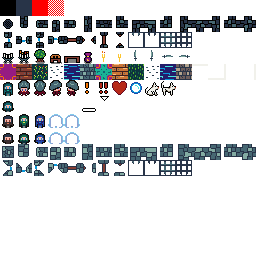
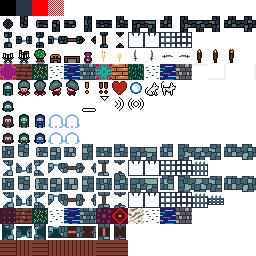
Fresh batch of tile adjustments

diff --git a/src/tilesets.ts b/src/tilesets.ts
@@ -185,30 +185,30 @@ const tileSet31Color:TileSet = {
         {textureIndex: r([0,  4]),  color:colorPreset.white, unlitColor:0xffa07070}, // TerrainType.GroundMarble,
         {textureIndex: r([7,  4]),  color:colorPreset.white, unlitColor:0xffa07070}, // TerrainType.GroundWood,
         {textureIndex: r([7,  4]),  color:colorPreset.white, unlitColor:0xffa07070}, // TerrainType.GroundWoodCreaky,
-        {textureIndex: r([0,  9]),  color:colorPreset.white, unlitColor:0xffa07070}, // TerrainType.Wall0000,
-        {textureIndex: r([2,  9]),  color:colorPreset.white, unlitColor:0xffa07070}, // TerrainType.Wall0001,
-        {textureIndex: r([4,  9]),  color:colorPreset.white, unlitColor:0xffa07070}, // TerrainType.Wall0010,
-        {textureIndex: r([6,  9]),  color:colorPreset.white, unlitColor:0xffa07070}, // TerrainType.Wall0011,
-        {textureIndex: r([1,  9]),  color:colorPreset.white, unlitColor:0xffa07070}, // TerrainType.Wall0100,
-        {textureIndex: r([9,  9]),  color:colorPreset.white, unlitColor:0xffa07070}, // TerrainType.Wall0101,
-        {textureIndex: r([8,  9]),  color:colorPreset.white, unlitColor:0xffa07070}, // TerrainType.Wall0110,
-        {textureIndex: r([12, 9]),  color:colorPreset.white, unlitColor:0xffa07070}, // TerrainType.Wall0111,
-        {textureIndex: r([3,  9]),  color:colorPreset.white, unlitColor:0xffa07070}, // TerrainType.Wall1000,
-        {textureIndex: r([10, 9]),  color:colorPreset.white, unlitColor:0xffa07070}, // TerrainType.Wall1001,
-        {textureIndex: r([7,  9]),  color:colorPreset.white, unlitColor:0xffa07070}, // TerrainType.Wall1010,
-        {textureIndex: r([14, 9]),  color:colorPreset.white, unlitColor:0xffa07070}, // TerrainType.Wall1011,
-        {textureIndex: r([5,  9]),  color:colorPreset.white, unlitColor:0xffa07070}, // TerrainType.Wall1100,
-        {textureIndex: r([13, 9]),  color:colorPreset.white, unlitColor:0xffa07070}, // TerrainType.Wall1101,
-        {textureIndex: r([11, 9]),  color:colorPreset.white, unlitColor:0xffa07070}, // TerrainType.Wall1110,
-        {textureIndex: r([15, 9]),  color:colorPreset.white, unlitColor:0xffa07070}, // TerrainType.Wall1111,
-        {textureIndex: r([0,  10]),  color:colorPreset.white, unlitColor:0xffa07070}, // TerrainType.OneWayWindowE,
-        {textureIndex: r([2,  10]),  color:colorPreset.white, unlitColor:0xffa07070}, // TerrainType.OneWayWindowW,
-        {textureIndex: r([3,  10]),  color:colorPreset.white, unlitColor:0xffa07070}, // TerrainType.OneWayWindowN,
-        {textureIndex: r([1,  10]),  color:colorPreset.white, unlitColor:0xffa07070}, // TerrainType.OneWayWindowS,
-        {textureIndex: r([10, 10]),  color:colorPreset.white, unlitColor:0xffa07070}, // TerrainType.PortcullisNS,
-        {textureIndex: r([10, 10]),  color:colorPreset.white, unlitColor:0xffa07070}, // TerrainType.PortcullisEW,
-        {textureIndex: r([7,  10]),  color:colorPreset.white, unlitColor:0xffa07070}, // TerrainType.DoorNS,
-        {textureIndex: r([5,  10]),  color:colorPreset.white, unlitColor:0xffa07070}, // TerrainType.DoorEW,
+        {textureIndex: r([0,  11]),  color:colorPreset.white, unlitColor:0xffa07070}, // TerrainType.Wall0000,
+        {textureIndex: r([2,  11]),  color:colorPreset.white, unlitColor:0xffa07070}, // TerrainType.Wall0001,
+        {textureIndex: r([4,  11]),  color:colorPreset.white, unlitColor:0xffa07070}, // TerrainType.Wall0010,
+        {textureIndex: r([6,  11]),  color:colorPreset.white, unlitColor:0xffa07070}, // TerrainType.Wall0011,
+        {textureIndex: r([1,  11]),  color:colorPreset.white, unlitColor:0xffa07070}, // TerrainType.Wall0100,
+        {textureIndex: r([9,  11]),  color:colorPreset.white, unlitColor:0xffa07070}, // TerrainType.Wall0101,
+        {textureIndex: r([8,  11]),  color:colorPreset.white, unlitColor:0xffa07070}, // TerrainType.Wall0110,
+        {textureIndex: r([12, 11]),  color:colorPreset.white, unlitColor:0xffa07070}, // TerrainType.Wall0111,
+        {textureIndex: r([3,  11]),  color:colorPreset.white, unlitColor:0xffa07070}, // TerrainType.Wall1000,
+        {textureIndex: r([10, 11]),  color:colorPreset.white, unlitColor:0xffa07070}, // TerrainType.Wall1001,
+        {textureIndex: r([7,  11]),  color:colorPreset.white, unlitColor:0xffa07070}, // TerrainType.Wall1010,
+        {textureIndex: r([14, 11]),  color:colorPreset.white, unlitColor:0xffa07070}, // TerrainType.Wall1011,
+        {textureIndex: r([5,  11]),  color:colorPreset.white, unlitColor:0xffa07070}, // TerrainType.Wall1100,
+        {textureIndex: r([13, 11]),  color:colorPreset.white, unlitColor:0xffa07070}, // TerrainType.Wall1101,
+        {textureIndex: r([11, 11]),  color:colorPreset.white, unlitColor:0xffa07070}, // TerrainType.Wall1110,
+        {textureIndex: r([15, 11]),  color:colorPreset.white, unlitColor:0xffa07070}, // TerrainType.Wall1111,
+        {textureIndex: r([0,  14]),  color:colorPreset.white, unlitColor:0xffa07070}, // TerrainType.OneWayWindowE,
+        {textureIndex: r([2,  14]),  color:colorPreset.white, unlitColor:0xffa07070}, // TerrainType.OneWayWindowW,
+        {textureIndex: r([3,  14]),  color:colorPreset.white, unlitColor:0xffa07070}, // TerrainType.OneWayWindowN,
+        {textureIndex: r([1,  14]),  color:colorPreset.white, unlitColor:0xffa07070}, // TerrainType.OneWayWindowS,
+        {textureIndex: r([13, 12]),  color:colorPreset.white, unlitColor:0xffa07070}, // TerrainType.PortcullisNS,
+        {textureIndex: r([13, 12]),  color:colorPreset.white, unlitColor:0xffa07070}, // TerrainType.PortcullisEW,
+        {textureIndex: r([7,  14]),  color:colorPreset.white, unlitColor:0xffa07070}, // TerrainType.DoorNS,
+        {textureIndex: r([5,  14]),  color:colorPreset.white, unlitColor:0xffa07070}, // TerrainType.DoorEW,
         {textureIndex: r([2+6, 4]),  color:colorPreset.white, unlitColor:0xffa07070}, // TerrainType.GardenDoorNS,
         {textureIndex: r([2+6, 4]),  color:colorPreset.white, unlitColor:0xffa07070}, // TerrainType.GardenDoorEW,
     ], 
@@ -217,10 +217,10 @@ const tileSet31Color:TileSet = {
         {textureIndex: r([4,  3]),                                 unlitColor:0xffd0b0b0}, // ItemType.Table,
         {textureIndex: r([2,  3]),   color:colorPreset.white,      unlitColor:0xffd09090}, // ItemType.Bush,
         {textureIndex: r([5,  3]),                                 unlitColor:0xffffffff}, // ItemType.Coin,
-        {textureIndex: r([6,  10]),  color:colorPreset.white,      unlitColor:0xffa07070}, // ItemType.DoorNS,
-        {textureIndex: r([4,  10]),  color:colorPreset.white,      unlitColor:0xffa07070}, // ItemType.DoorEW,
-        {textureIndex: r([10,  10]), color:colorPreset.white,      unlitColor:0xffa07070}, // ItemType.PortcullisNS,
-        {textureIndex: r([10,  10]), color:colorPreset.white,      unlitColor:0xffa07070}, // ItemType.PortcullisEW,
+        {textureIndex: r([6,  14]),  color:colorPreset.white,      unlitColor:0xffa07070}, // ItemType.DoorNS,
+        {textureIndex: r([4,  14]),  color:colorPreset.white,      unlitColor:0xffa07070}, // ItemType.DoorEW,
+        {textureIndex: r([13, 12]), color:colorPreset.white,      unlitColor:0xffa07070}, // ItemType.PortcullisNS,
+        {textureIndex: r([13, 12]), color:colorPreset.white,      unlitColor:0xffa07070}, // ItemType.PortcullisEW,
         {textureIndex: r([0,  3]),                                 unlitColor:0xffffffff}, // ItemType.TorchUnlit,
         {textureIndex: r([1,  3]),                                 unlitColor:0xffffffff}, // ItemType.TorchLit,    
         {textureIndex: r([6,  3]),                                 unlitColor:0xffa07070}, // ItemType.TorchCarry,    
